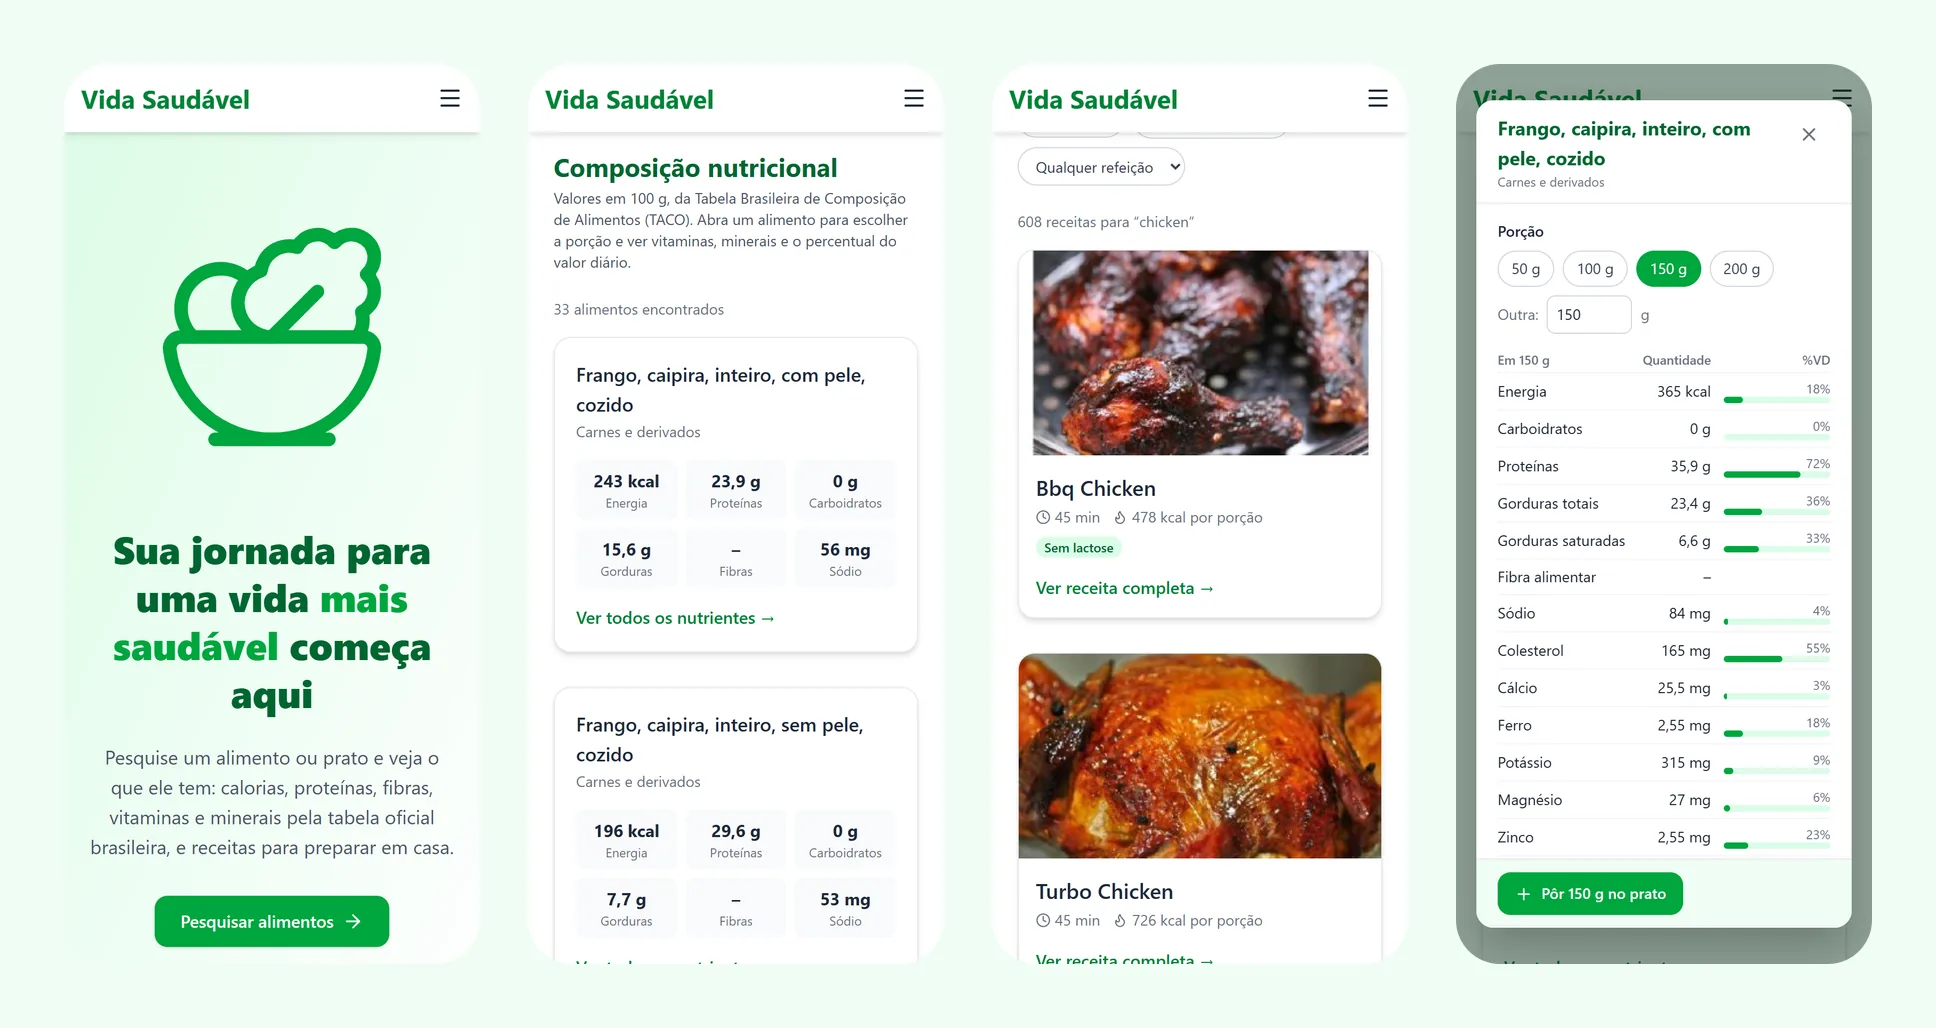
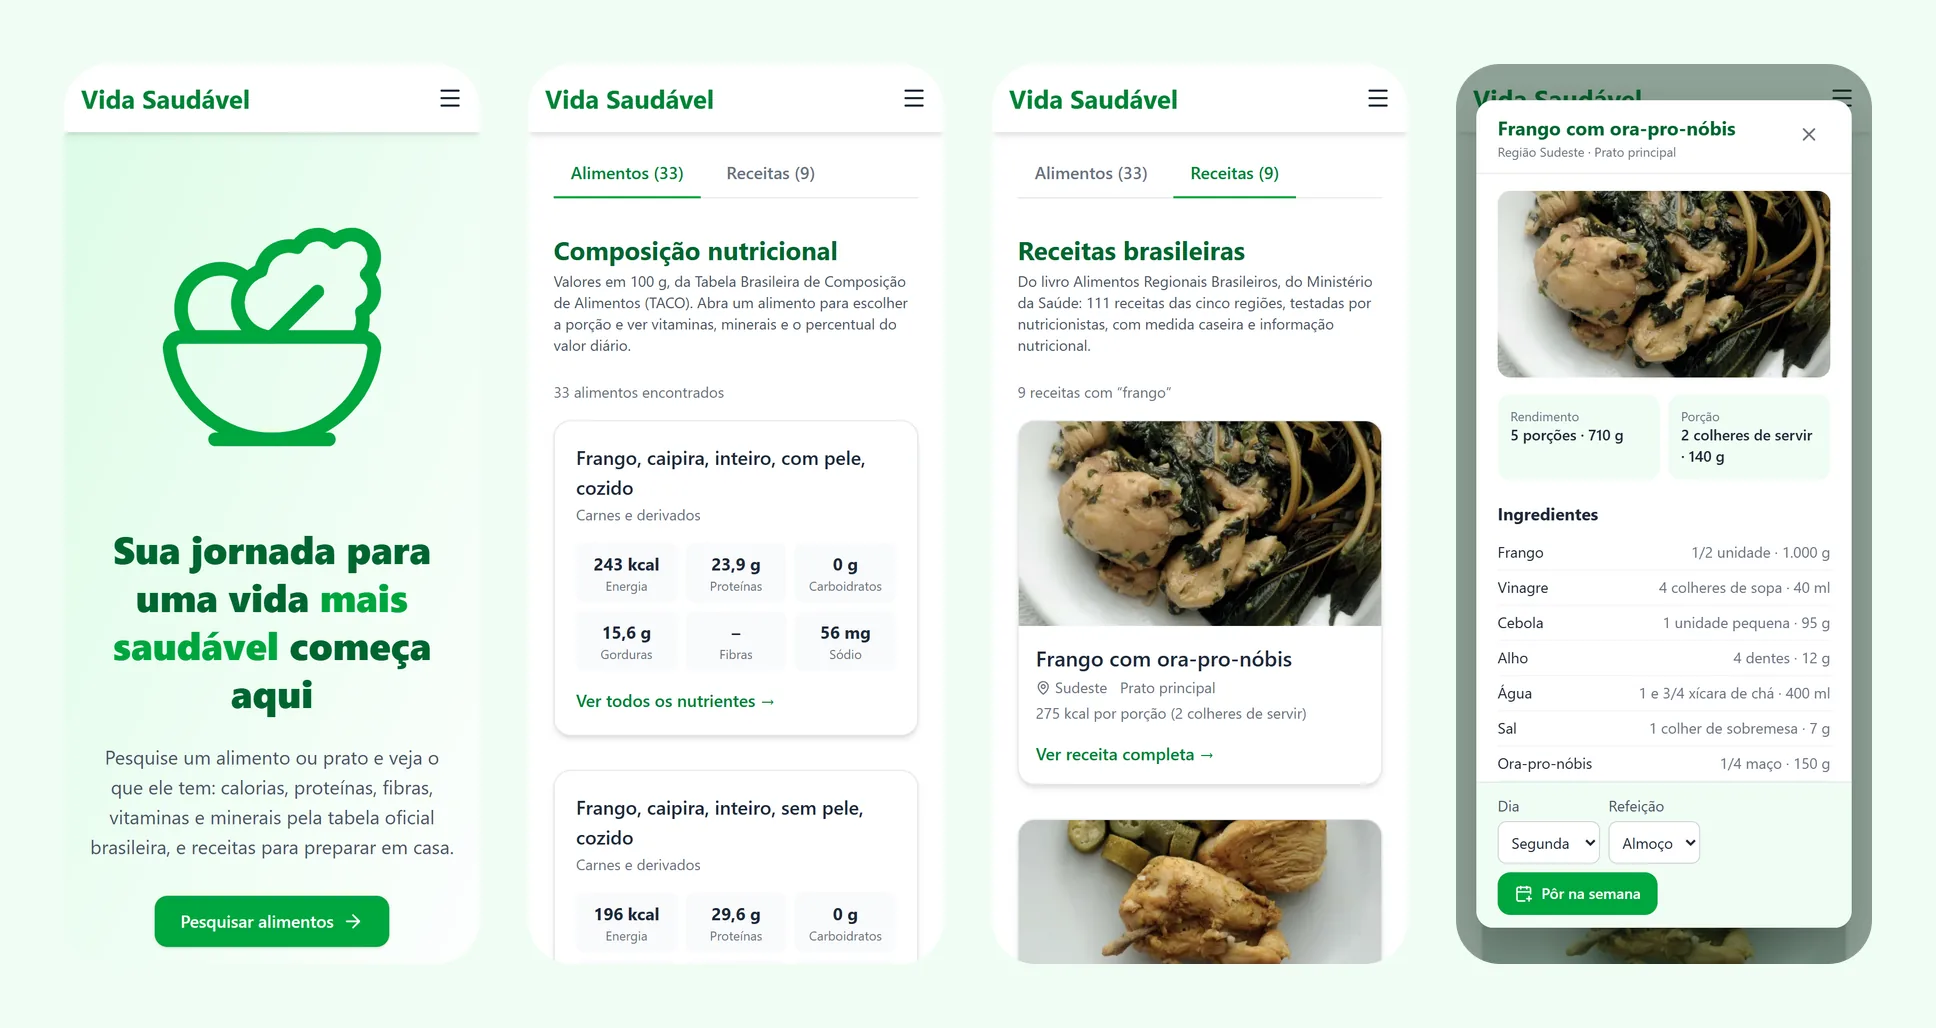
README com as receitas brasileiras e telas novas

diff --git a/index.html b/index.html
@@ -5,7 +5,7 @@
     <link rel="icon" type="image/svg+xml" href="/favicon.svg" />
     <meta name="viewport" content="width=device-width, initial-scale=1.0" />
     <meta name="theme-color" content="#15803d" />
-    <meta name="description" content="Pesquise um alimento ou prato e veja calorias, proteínas, fibras, vitaminas e minerais pela tabela oficial brasileira (TACO), com receitas e dicas do Guia Alimentar." />
+    <meta name="description" content="Pesquise um alimento ou prato e veja a composição pela tabela oficial brasileira (TACO) e receitas brasileiras do Ministério da Saúde, com medida caseira e informação nutricional." />
     <title>Vida Saudável</title>
   </head>
   <body>

diff --git a/README.md b/README.md
@@ -5,12 +5,12 @@ brasileiros. React 19, TypeScript, Tailwind e Vite.
 
 **No ar:** [vida-saudavel-tau.vercel.app](https://vida-saudavel-tau.vercel.app)
 
-![Pesquisa por "frango" no computador: a composição de cada corte pela tabela TACO, com energia, proteínas, carboidratos, gorduras, fibras e sódio](docs/tela.webp)
+![Pesquisa por "frango" no computador: as abas Alimentos e Receitas, com as receitas brasileiras do Ministério da Saúde, cada uma com foto, região, tipo e calorias por porção](docs/tela.webp)
 
 <details>
 <summary>No celular</summary>
 
-![No celular: o topo da página, a composição do frango, as receitas com frango e a ficha com a porção de 150 g e o valor diário](docs/celular.webp)
+![No celular: o topo da página, a aba Alimentos com a composição do frango, a aba Receitas e a ficha do Frango com ora-pro-nóbis, com rendimento, porção e ingredientes em medida caseira](docs/celular.webp)
 
 </details>
 
@@ -19,8 +19,9 @@ cara: os dados aparecem quando a pessoa pesquisa um alimento ou prato.
 
 - **Composição:** os alimentos com o nome pesquisado, entre os 597 da Tabela Brasileira de
   Composição de Alimentos (TACO, NEPA/UNICAMP).
-- **Receitas:** com uma chave do Spoonacular, receitas do mesmo termo, plano da semana e lista
-  de compras.
+- **Receitas brasileiras:** 111 receitas do livro *Alimentos Regionais Brasileiros*, do
+  Ministério da Saúde, das cinco regiões, com foto, medida caseira e informação nutricional.
+- **Semana e lista de compras:** as receitas vão para a semana, e a lista soma os ingredientes.
 - **Sugestões:** um toque em "mais fibra", "mais ferro" etc. lista os alimentos com mais (ou
   menos) daquele nutriente.
 - **Meu prato:** o total do prato montado, com o valor diário da Anvisa.
@@ -34,8 +35,9 @@ cara: os dados aparecem quando a pessoa pesquisa um alimento ou prato.
   - Cada alimento aparece num cartão com energia, proteínas, carboidratos, gorduras, fibras e
     sódio em 100 g.
   - A comida do dia a dia vem primeiro: o cozido antes do cru, e a fruta antes do doce de fruta.
-  - A mesma pesquisa traz as receitas, com filtros de dieta, glúten, lactose, tempo e tipo de
-    refeição.
+  - O resultado vem em duas abas, uma de cada vez: **Alimentos** e **Receitas**, com a contagem
+    de cada uma. Se o termo é um prato sem alimento com esse nome ("moqueca"), abre direto em
+    Receitas.
 - **Ficha do alimento.** Porção de 50, 100, 150 ou 200 g, ou qualquer valor até 2 kg. Mostra
   energia, macronutrientes, fibra, sódio, colesterol, minerais e vitaminas, cada um com o %VD da
   Anvisa (IN nº 75/2020) e uma barra.
@@ -50,9 +52,22 @@ cara: os dados aparecem quando a pessoa pesquisa um alimento ou prato.
   as gramas podem ser trocadas depois. O total vem com %VD e pode ser copiado. O prato fica no
   navegador, conferido ao ler. Se algum alimento não tem um nutriente na tabela, o total avisa
   que é parcial em vez de contar zero.
-- **Receitas, semana e lista de compras.** Funcionam quando a chave do Spoonacular está
-  configurada no servidor (detalhes abaixo). Sem a chave, a pesquisa mostra só a composição e
-  avisa que as receitas não estão disponíveis. A semana aparece quando a primeira receita entra.
+- **Receitas brasileiras.** As 111 fichas técnicas de *Alimentos Regionais Brasileiros*
+  (Ministério da Saúde, 2015), testadas no laboratório de técnica dietética da UnB. A origem, a
+  licença e a extração estão em [`docs/receitas.md`](docs/receitas.md).
+  - **Busca:** pelo nome e pelos ingredientes ("frango" acha o "Frango no tucupi" e a "Galinhada
+    com pequi"). Sem receita com todas as palavras, mostra as parecidas: "bolo de milho" mostra
+    os bolos.
+  - **Ficha:** foto do livro, ingredientes com medida caseira e peso bruto, modo de preparo por
+    etapas, rendimento, porção e informação nutricional por porção, com o %VD da Anvisa.
+  - **Sem serviço externo:** as receitas vão junto com o site, sem chave nem limite de consultas.
+- **Receitas internacionais.** Com a chave do Spoonacular no servidor (detalhes abaixo), um botão
+  no fim da aba de receitas mostra também receitas de outros países, em inglês, das de melhor nota
+  de saúde para as de pior. O Spoonacular só é consultado quando a pessoa pede.
+- **Semana e lista de compras.** Qualquer receita, brasileira ou internacional, pode ir para um
+  dia e refeição da semana. A lista de compras soma o mesmo ingrediente na mesma unidade. As
+  brasileiras usam o peso bruto do livro, e as internacionais são buscadas de novo no Spoonacular.
+  A semana aparece quando a primeira receita entra.
 - **Dicas.** Os dez passos do
   [Guia Alimentar para a População Brasileira](https://bvsms.saude.gov.br/bvs/publicacoes/guia_alimentar_populacao_brasileira_2ed.pdf)
   (Ministério da Saúde, 2014), três de cada vez, com os títulos do guia e resumos meus.
@@ -68,6 +83,16 @@ A extração da TACO, a conferência e os valores diários de referência estão
 
 A tabela (200 KB, cerca de 30 KB comprimida) é baixada à parte, depois da página. Ela vai junto
 com o site, sem depender de serviço externo nem de chave.
+
+As receitas brasileiras têm o mesmo tratamento, em [`docs/receitas.md`](docs/receitas.md):
+
+- o livro de origem, com o SHA-256 e a licença;
+- os scripts de extração, em `scripts/receitas-ms/`;
+- as leituras que pediram decisão, como o sódio impresso em "g";
+- as conferências contra o livro.
+
+Os dados e as fotos dessas receitas (`src/receitas/ministerio.json` e `public/receitas/`)
+seguem a licença do livro, CC BY-NC-SA 4.0.
 
 ## Receitas: termos do Spoonacular
 
@@ -123,8 +148,11 @@ npm run build
   receita com o tempo, e é por isso que as sugestões deixam os industrializados de fora.
 - **Não é orientação nutricional.** O %VD usa a referência de rótulo da Anvisa (2.000 kcal), não
   a necessidade de cada pessoa.
-- **Receitas em inglês.** Com a chave configurada, o modo de preparo vem em inglês, como está na
-  fonte.
+- **São 111 receitas brasileiras.** É o que o livro do Ministério traz. Pratos fora dele, como
+  "bolo de milho", aparecem como parecidos, não como receita exata. A base pode crescer com
+  outras publicações de licença aberta, sempre com a licença conferida antes.
+- **Receitas internacionais em inglês.** O modo de preparo vem como está na fonte.
 - **O prato e o plano ficam só no navegador** onde foram feitos.
-- **Uso comercial das receitas.** O Spoonacular em produção depende de um plano pago compatível
-  com o volume de acessos. A parte de alimentos não tem essa restrição.
+- **Uso comercial das receitas.** As receitas brasileiras são CC BY-NC-SA 4.0, sem uso
+  comercial. O Spoonacular em produção depende de um plano pago compatível com o volume de
+  acessos. A parte de alimentos não tem essas restrições.
